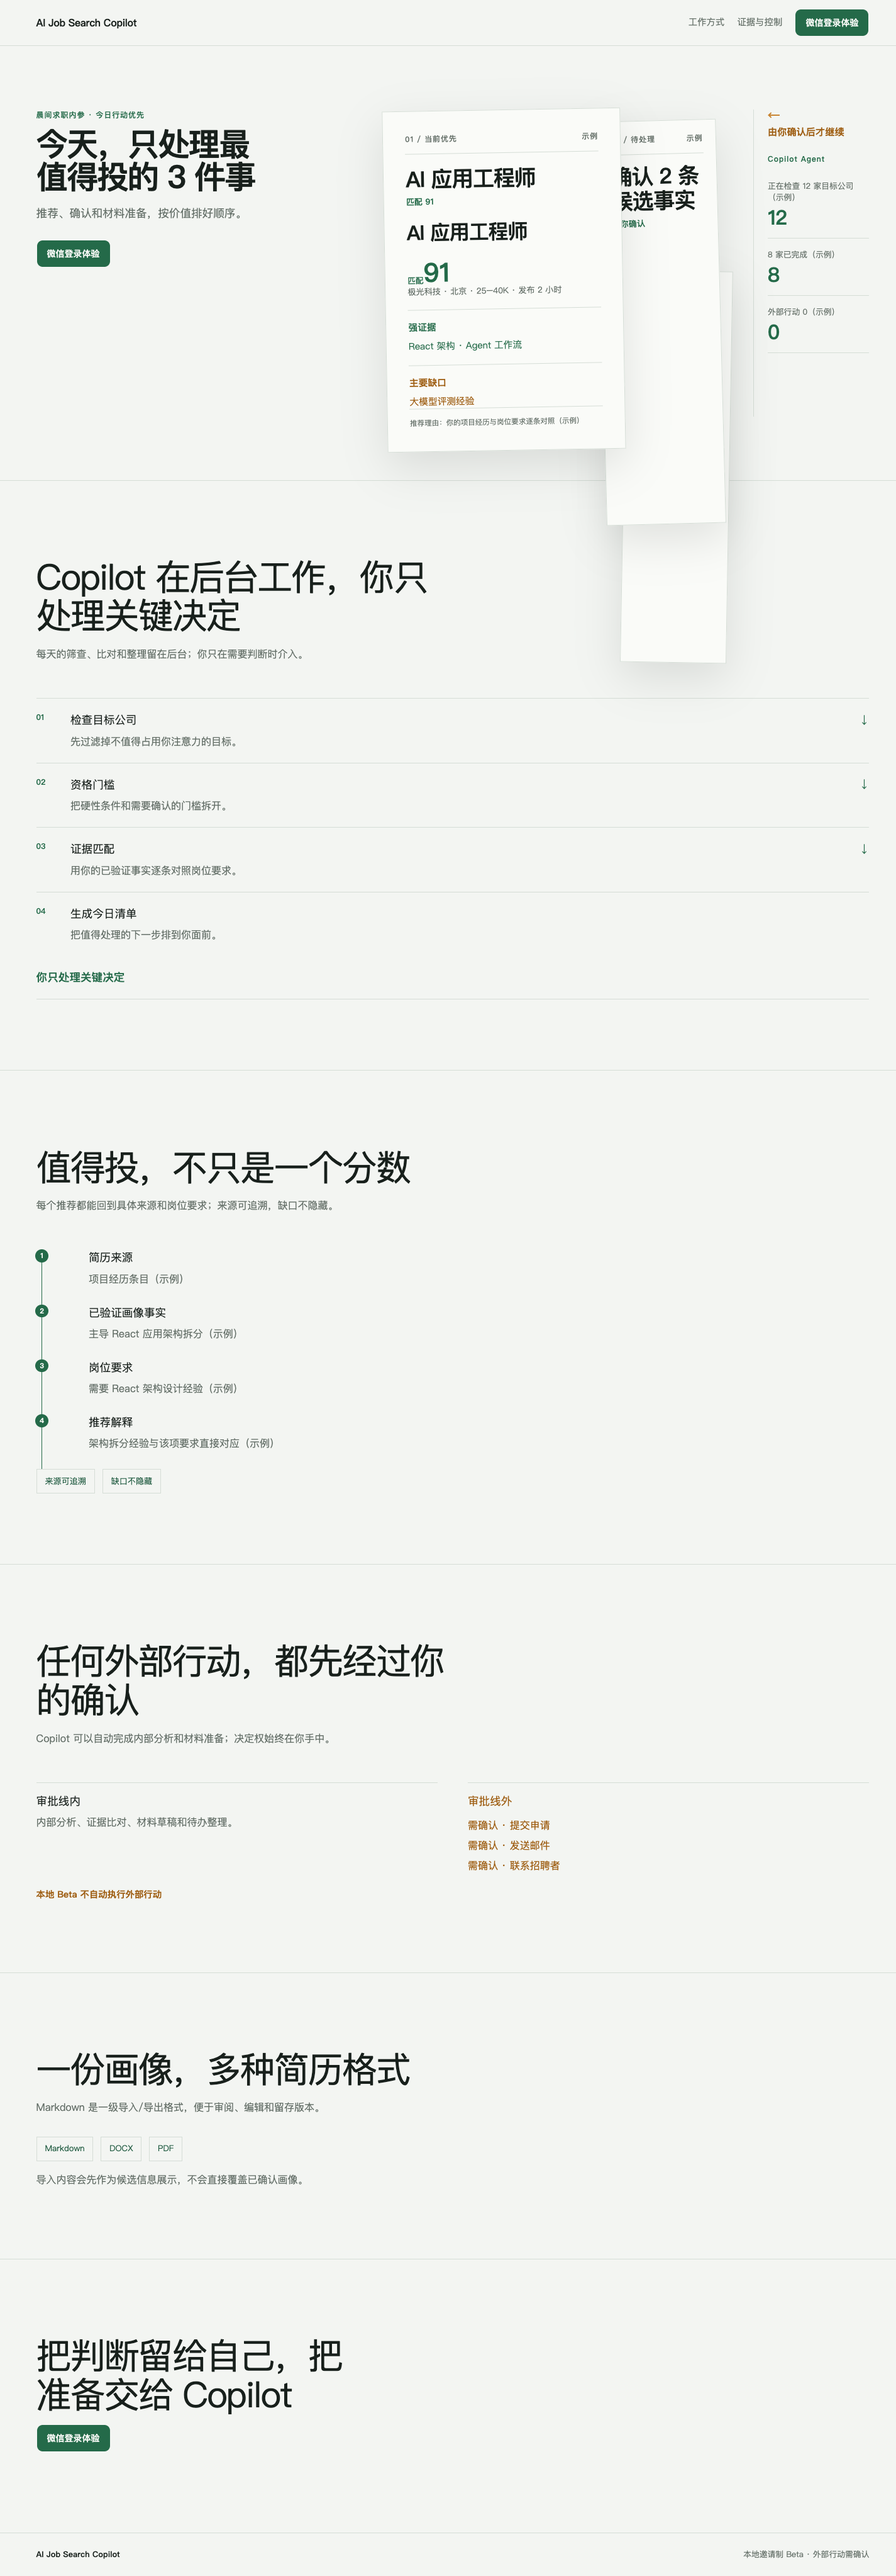
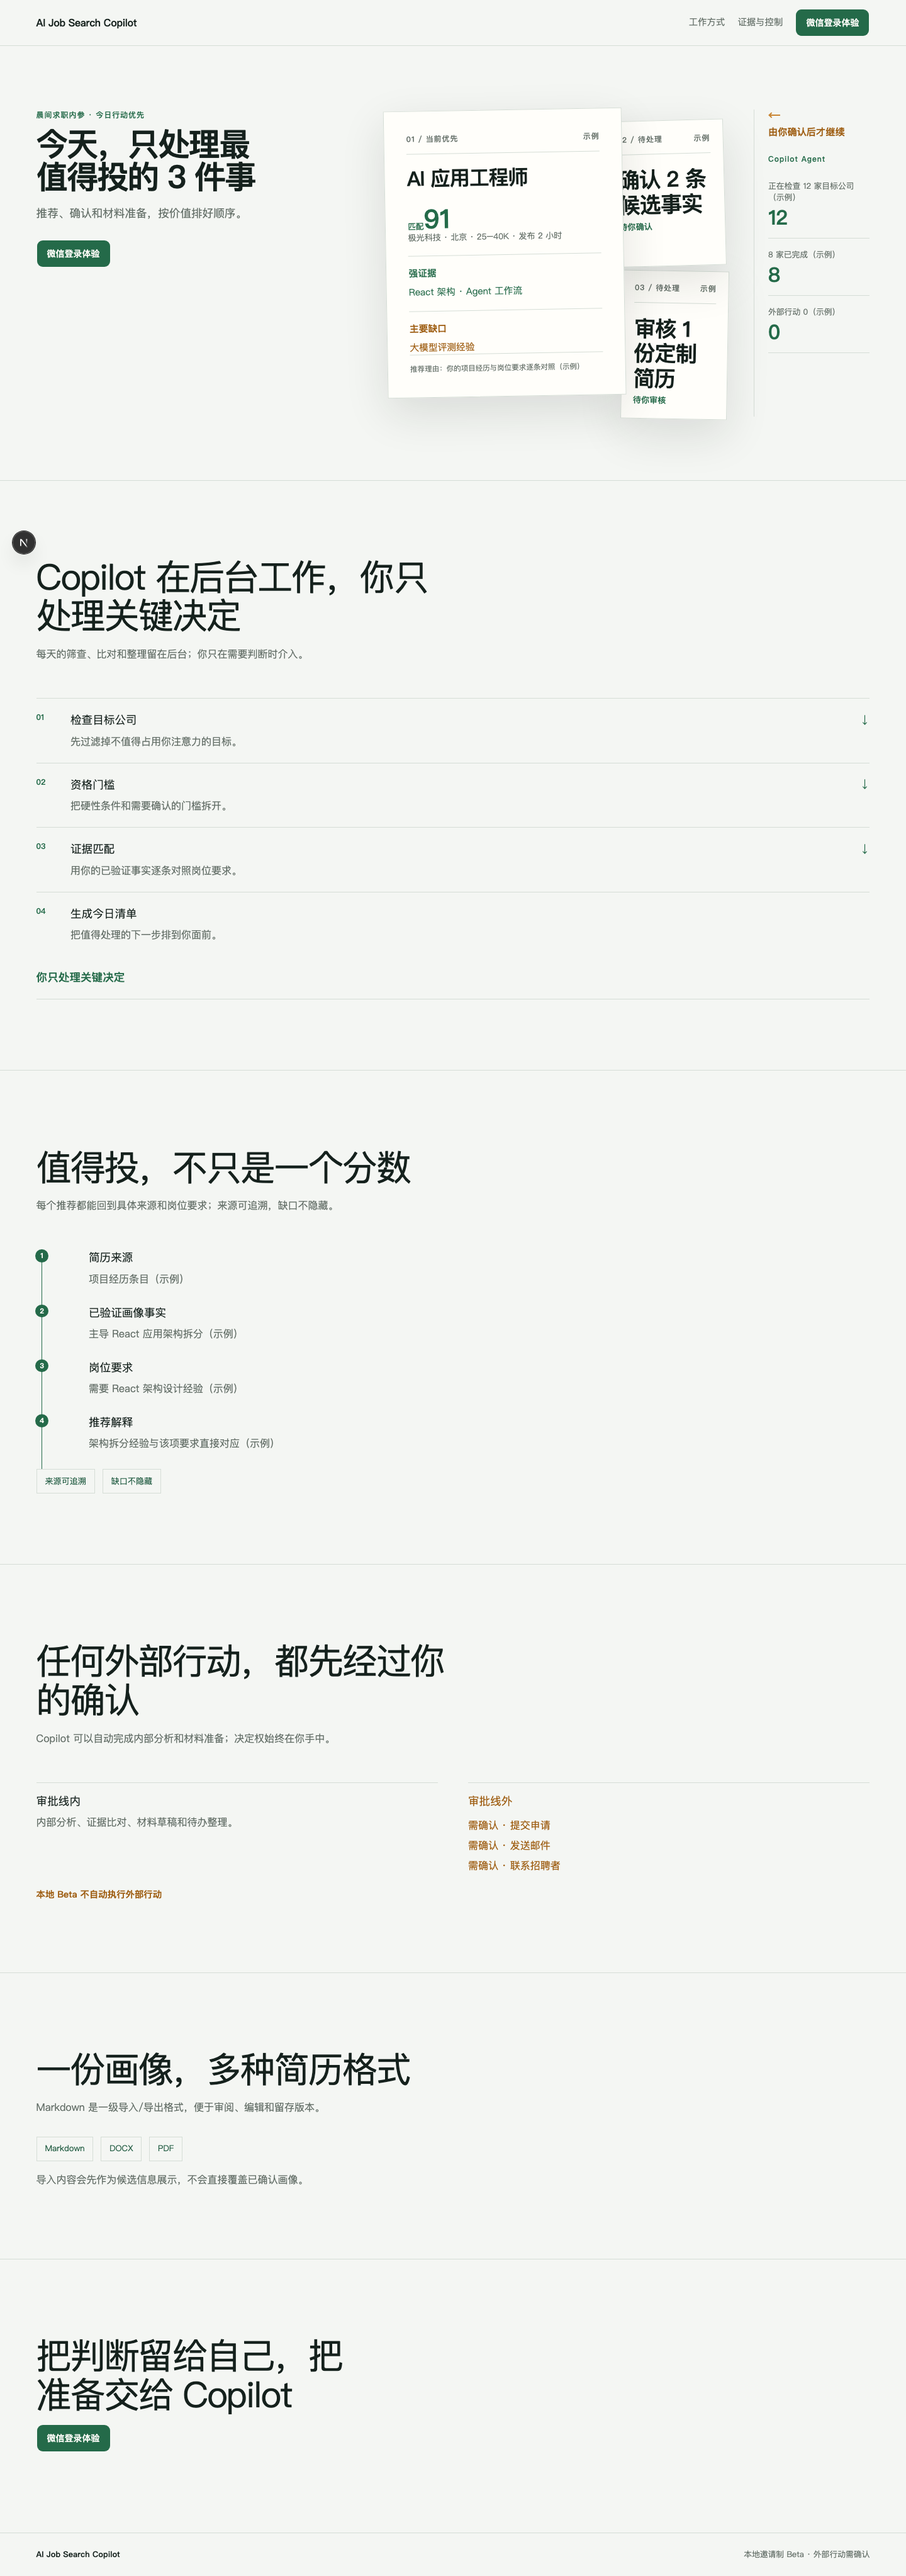
fix(web): complete landing visual contract

diff --git a/apps/web/app/globals.css b/apps/web/app/globals.css
@@ -24,9 +24,9 @@
 }
 
 :root {
-  --ground: #f3f5f2;
-  --surface: #fafbf8;
-  --ink: #18201c;
+  --ground: #f4f6f3;
+  --surface: #fffefa;
+  --ink: #15211d;
   --muted: #657069;
   --emerald: #246a49;
   --emerald-strong: #18553a;
@@ -479,21 +479,6 @@ body {
   font-size: 0.82rem;
 }
 
-.briefing-card:not([data-active="true"]) .briefing-card-glance {
-  margin-top: 1rem;
-}
-
-.briefing-card:not([data-active="true"]) .briefing-card-title,
-.briefing-card:not([data-active="true"]) .briefing-meta,
-.briefing-card:not([data-active="true"]) .briefing-evidence,
-.briefing-card:not([data-active="true"]) .briefing-gap,
-.briefing-card:not([data-active="true"]) .briefing-checklist,
-.briefing-card:not([data-active="true"]) .briefing-candidate-note,
-.briefing-card:not([data-active="true"]) .briefing-markdown,
-.briefing-card:not([data-active="true"]) .briefing-footnote {
-  visibility: hidden;
-}
-
 .briefing-card-heading span {
   color: var(--muted);
   font-weight: 500;
@@ -587,15 +572,11 @@ body {
   padding: 0.85rem 0;
 }
 
-.briefing-markdown p {
+.briefing-markdown span {
   margin: 0.35rem 0;
   font-family: ui-monospace, "SFMono-Regular", Consolas, monospace;
   font-size: 0.78rem;
   line-height: 1.55;
-}
-
-.briefing-markdown span {
-  margin: 0.2rem 0;
 }
 
 .briefing-footnote {
@@ -726,10 +707,6 @@ body {
     padding: clamp(1.25rem, 3vw, 2.2rem);
     transform: translate(18%, 2.8%) rotate(1deg) scale(0.94);
     width: auto;
-  }
-
-  .briefing-card:not([data-active="true"]) .briefing-card-glance {
-    margin-top: 1rem;
   }
 
   .copilot-status {

diff --git a/apps/web/components/landing/briefing-stack.test.tsx b/apps/web/components/landing/briefing-stack.test.tsx
@@ -1,4 +1,4 @@
-import { render, screen } from "@testing-library/react";
+import { render, screen, within } from "@testing-library/react";
 import userEvent from "@testing-library/user-event";
 import { BriefingStack } from "./briefing-stack";
 
@@ -23,4 +23,21 @@ it("uses tabs to bring a briefing forward without exposing inactive details", as
   expect(facts).toHaveAttribute("aria-selected", "true");
   expect(recommendation).toHaveAttribute("aria-selected", "false");
   expect(screen.getByRole("tabpanel")).toHaveTextContent("项目包含大模型评测相关经验");
+});
+
+it("shows each paper title once by using details only for the active paper", async () => {
+  const user = userEvent.setup();
+  render(<BriefingStack />);
+
+  const cards = screen.getByRole("tablist", { name: "切换行动简报" });
+
+  expect(within(cards).getAllByText("AI 应用工程师", { exact: true })).toHaveLength(1);
+  expect(within(cards).getAllByText("确认 2 条候选事实", { exact: true })).toHaveLength(1);
+  expect(within(cards).getAllByText("审核 1 份定制简历", { exact: true })).toHaveLength(1);
+
+  await user.click(screen.getByRole("tab", { name: "确认 2 条候选事实（示例）" }));
+
+  expect(within(cards).getAllByText("AI 应用工程师", { exact: true })).toHaveLength(1);
+  expect(within(cards).getAllByText("确认 2 条候选事实", { exact: true })).toHaveLength(1);
+  expect(within(cards).getAllByText("审核 1 份定制简历", { exact: true })).toHaveLength(1);
 });

diff --git a/apps/web/e2e/landing.spec.ts b/apps/web/e2e/landing.spec.ts
@@ -104,6 +104,24 @@ test("桌面端可直接点击露出的档案纸将其置前", async ({ page }, 
   await expect(facts).toHaveAttribute("aria-selected", "true");
 });
 
+test("桌面待处理纸可辨识并可直接点击第三张纸置前", async ({ page }, testInfo) => {
+  test.skip(testInfo.project.name !== "Desktop Chrome", "仅在桌面检查待处理纸的可辨性与鼠标操作");
+
+  await page.goto("/");
+
+  const facts = page.getByRole("tab", { name: briefingTabs[1] });
+  const resume = page.getByRole("tab", { name: briefingTabs[2] });
+
+  await expect(facts).toContainText("确认 2 条候选事实");
+  await expect(facts).toContainText("待你确认");
+  await expect(resume).toContainText("审核 1 份定制简历");
+  await expect(resume).toContainText("待你审核");
+
+  await resume.click();
+
+  await expect(resume).toHaveAttribute("aria-selected", "true");
+});
+
 test("键盘按顺序到达导航、CTA 与三张简报 tab，并可切换简报", async ({ page }, testInfo) => {
   test.skip(testInfo.project.name !== "Desktop Chrome", "iOS WebKit 仿真不支持硬件 Tab 焦点序列");
 

diff --git a/apps/web/components/landing/briefing-stack.tsx b/apps/web/components/landing/briefing-stack.tsx
@@ -82,11 +82,14 @@ export function BriefingStack({
                   </span>
                   <span>示例</span>
                 </span>
-                <span className="briefing-card-glance">
-                  <span>{briefing.label}</span>
-                  <strong>{briefing.state}</strong>
-                </span>
-                <BriefingContent id={briefing.id} />
+                {isActive ? (
+                  <BriefingContent id={briefing.id} />
+                ) : (
+                  <span className="briefing-card-glance">
+                    <span>{briefing.label}</span>
+                    <strong>{briefing.state}</strong>
+                  </span>
+                )}
               </span>
             </button>
           );

diff --git a/.superpowers/sdd/2026-08-26-marketing-landing-foundation/task-7-report.md b/.superpowers/sdd/2026-08-26-marketing-landing-foundation/task-7-report.md
@@ -1,0 +1,121 @@
+# Task 7 最终自检报告
+
+## 校准决策
+
+- 选择：**bolder**。
+- 依据：合并 critique 已确认首屏过于普通，批准稿要求的三张行动简报没有同时可辨；问题不在色彩或动效过强。
+- 执行：只放大现有“档案纸 + 三件行动 + 琥珀审批注记”语言；**quieter 未运行**。
+
+## 初始问题、修复与证据
+
+| 初始问题 | 最小修复 | 最终证据 |
+| --- | --- | --- |
+| 390px Header 将页内锚点压成逐字竖排，CTA 仅 36px | 增加 Header 局部响应式规则：小屏隐藏两条页内锚点；三处登录 CTA 统一最小高度 44px | 浏览器 390×844 snapshot 只列品牌与“微信登录体验”；实测 CTA heights 为 `[44,44,44]`，`scrollWidth=clientWidth=375`；移动 e2e 通过 |
+| 首屏退化为一张完整卡与两张幽灵纸 | H1 扩至 5 列语言空间；桌面行动纸改为一张主纸和两张右侧不同尺度的可读待处理纸，显示类型与状态；移除 side-tab 视觉 | `landing-desktop.png` 显示“AI 应用工程师 / 匹配 91”“确认 2 条候选事实 / 待你确认”“审核 1 份定制简历 / 待你审核”；桌面 e2e 通过直接点击露出的纸张置前 |
+| 切换器是 `aria-pressed` 按钮，非活动详情连续进入辅助技术阅读顺序 | 改为 roving-tabindex tabs：`tablist`、`tab`、关联 `tabpanel`；只让活动 panel 留在正常辅助技术树；方向键、Home、End 选纸 | RED 测试先因找不到 `tab` 失败；GREEN 单测通过。最终 desktop/mobile axe 通过，键盘 e2e 通过 |
+| 候选“大模型评测”事实与 91 分的关系不清楚 | 候选事实纸新增“待确认，尚未计入当前 91 分或正式画像证据（示例）” | 文案同时存在于视觉纸和活动 panel；单测在切换后断言活动 panel 内容 |
+| reduced-motion 仅断言 ARIA 状态 | e2e 额外断言切换后活动 panel 立即包含“Markdown 简历草稿” | Desktop Chrome 与 Mobile Safari reduced-motion e2e 均通过 |
+| 中文标题字距过紧、后半页重复眉题 | 中文负字距收回至不低于 `-0.04em`；仅隐藏营销页后半段重复眉题 | 最终截图显示更直接的章节节奏；`rg` 未发现低于阈值的本次标题字距 |
+| 桌面 axe 发现叠放纸的透明度降低了小字对比 | 去除非活动纸的全卡 opacity 降级，保留尺度和位置区分 | 重跑桌面 axe 通过；全量 e2e 12 passed、6 skipped |
+
+## RED / GREEN 记录
+
+- **RED 1**：`pnpm --filter web test -- components/landing/briefing-stack.test.tsx` 失败，旧实现没有 `tab` 角色，错误为找不到 `AI 应用工程师（示例）` tab。
+- **GREEN 1**：最小 tabs 实现后，`pnpm test:web` 为 5 files / 9 tests passed。
+- **RED 2**：新增桌面直接点击纸张的 e2e 在堆叠遮挡下超时，确认露出的事实纸中心会被更高层纸截获。
+- **GREEN 2**：调整两张待处理纸的层级后，`桌面端可直接点击露出的档案纸将其置前` 通过。
+- **RED 3**：全量 axe 报告叠放纸 opacity 导致 3.48:1 / 4.24:1 的文字对比不足。
+- **GREEN 3**：移除 opacity 降级后，Desktop Chrome 和 Mobile Safari 的 axe 均通过。
+
+## 浏览器证据
+
+- 独立服务：`127.0.0.1:3005`，以 `apps/web/node_modules/.bin/next dev` 启动；检查后已停止。
+- Desktop：1440×900 浏览器 snapshot 包含 3 个 tabs、主标题、登录 CTA 和各章节；截图为 `.impeccable/mocks/review/landing-desktop.png`。
+- Mobile：390×844 snapshot 只保留 Header 的品牌和登录 CTA；截图为 `.impeccable/mocks/review/landing-mobile.png`。
+- Console：仅 Next DevTools 提示和 HMR 连接日志；errors 无输出。
+- Browser session：`task7-final-desktop`、`task7-final-mobile` 已关闭。
+
+## 最终审查评分
+
+### Critique 自检
+
+| 项目 | 分数 | 依据 |
+| --- | ---: | --- |
+| 系统状态可见性 | 4/4 | 离散运行条、选中 tab 和关联 panel 同步。 |
+| 真实世界匹配 | 3/4 | 求职证据与审批语言明确；RSC/Markdown 仍作为示例材料内容保留。 |
+| 用户控制 | 4/4 | 鼠标、键盘和登录边界均可返回且无外部自动操作。 |
+| 一致性与响应式 | 4/4 | Mobile Header、触控尺寸、焦点和断点均通过实测。 |
+| 错误预防 | 4/4 | 候选事实不计入 91 分的边界已明确。 |
+| 识别而非回忆 | 4/4 | 三张纸同时露出类型和状态。 |
+| 审美与最小化 | 3/4 | 首屏形成强记忆点；下半页仍以克制的文字证据为主。 |
+| 错误恢复 | 2/4 | 登录边界说明未创建会话，但没有模拟真实微信 OAuth 失败流程（本批次未实现能力）。 |
+| **合计** | **28/32 · 88%** | **Good，剩余限制已如实标注。** |
+
+### Audit 自检
+
+| 维度 | 分数 | 结论 |
+| --- | ---: | --- |
+| Accessibility | 4/4 | axe 0 violations、tabs/tabpanel、焦点、reduced motion、44px 控件。 |
+| Performance | 4/4 | 静态营销内容，只有简报 Client Component；无远程字体、图库或额外运行时。 |
+| Theming | 3/4 | 营销页面复用现有 CSS tokens；项目没有深色主题需求。 |
+| Responsive | 4/4 | 1440/390 实测，无横向溢出。 |
+| Implementation Integrity | 4/4 | 视觉世界、批准稿和真实产品边界一致；已移除 side-tab。 |
+| **合计** | **19/20 · Excellent** | **无 P0/P1；唯一 P2 为正式微信 OAuth 的失败恢复尚未实现，属于本批次范围外。** |
+
+## 验证结果
+
+| 命令 | 结果 |
+| --- | --- |
+| `pnpm test:web` | 5 files / 9 tests passed |
+| `pnpm lint:web` | exit 0 |
+| `pnpm build:web` | exit 0；`/` 静态，`/login` 动态 |
+| `PLAYWRIGHT_PORT=3004 pnpm test:e2e` | 12 passed / 6 skipped / exit 0 |
+| `git diff --check` | exit 0 |
+| `rg -n "4e302c13|unreviewed and undocumented is unfinished" apps/web` | 3 命中，合同保留 |
+| `embed-prompt.mjs ... --read` | exit 0 |
+| `jq -e '.approved == true and (.prompt | length > 0)' ...` | `true` |
+
+## 交付物与剩余问题
+
+- 已新增 `DESIGN.md` 与 `.impeccable/design.json`（schemaVersion 2，5 个真实代表组件）。
+- 已新增最终桌面/移动审查截图。
+- 未解决：真实微信 OAuth 及其网络失败恢复不属于当前公开营销页 + Dev Auth 登录边界的实现范围；没有假造该能力。
+
+## Fix round 1
+
+### RED / GREEN
+
+- **RED 1**：新增 `桌面待处理纸可辨识并可直接点击第三张纸置前` 后，第三张“审核 1 份定制简历 / 待你审核”点击超时；Playwright 明确报告第二张纸的子树拦截 pointer events。
+- **GREEN 1**：活动纸只渲染详情，非活动纸只渲染 glance 标题/状态，详情不再以 `visibility: hidden` 留在纸张布局中。定向 E2E 已可直接点击第三张纸置前；两张待处理纸的标题和状态均断言通过。
+- **RED 2**：新增组件测试时，旧实现使同一张纸的标题在 glance、详情与 panel 中重复出现。
+- **GREEN 2**：组件测试将断言限定于可视纸张 tablist：每张纸在任一排序只有一个标题；`pnpm test:web` 为 5 files / 10 tests passed。
+
+### 逐项修复结论
+
+| Finding | Verdict |
+| --- | --- |
+| ground / surface / ink 偏离合同 | 已修复为 `#f4f6f3` / `#fffefa` / `#15211d`，并同步 `DESIGN.md` 与 sidecar；`amber #c98532` 未变，`amber-ink #9f5f14` 记录为派生 AA 角色。 |
+| 第三张纸被覆盖 | 已修复：非活动详情退出布局，待处理纸保持紧凑高度；E2E 覆盖两张标题/状态及直接点击第三张置前。 |
+| sidecar schema 与 colorMeta 不完整 | 已修复：顶层严格为 `schemaVersion`、`generatedAt`、`title`、`extensions`、`components`、`narrative`；9 个 DESIGN 颜色均有 8-step tonalRamp，保留 5 个自包含 `ds-*` 组件。 |
+| 活动纸重复标题 | 已修复：活动态仅渲染详情，非活动态仅渲染 glance；组件测试防回归。 |
+| Markdown span 样式未绑定 | 已修复：等宽字体、字号、行高迁移到 `.briefing-markdown span`。 |
+
+### 截图与浏览器证据
+
+- 独立服务：`127.0.0.1:3018`，仅用于本轮检查，已关闭；`agent-browser` 的 `task7-fix-desktop`、`task7-fix-mobile` session 也已关闭。
+- agent-browser 真实 viewport：Desktop `window.innerWidth/innerHeight=1440/900`、`clientWidth=1425`、`scrollWidth=1425`；Mobile `390/844`、`clientWidth=375`、`scrollWidth=375`。full-page PNG 分别为 `1425×4093`、`375×4276`，15px 差异来自 Chromium 滚动条。
+- 为获得精确交付宽度，项目 Playwright page context 以同一 viewport 重采集 `.impeccable/mocks/review/landing-desktop.png` 与 `landing-mobile.png`；实际像素为 **1440×4093**、**390×4205**。
+
+### 验证结果
+
+| 命令 | 结果 |
+| --- | --- |
+| `pnpm test:web` | 5 files / 10 tests passed |
+| `pnpm lint:web` | exit 0 |
+| `pnpm build:web` | exit 0 |
+| `PLAYWRIGHT_PORT=3004 pnpm test:e2e` | 13 passed / 7 skipped / exit 0 |
+| `git diff --check` | exit 0 |
+| `rg -n "4e302c13|unreviewed and undocumented is unfinished" apps/web` | 3 命中 |
+| `embed-prompt.mjs ... --read` 与 approved jq | exit 0 / `true` |
+| schema jq | 严格顶层键、schemaVersion 2、5 个 `ds-*` 组件均为 `true` |
+| colorMeta jq | 9 个 DESIGN 颜色均有对应项且 tonalRamp 长度为 8；amber / amber-ink 合同为 `true` |

diff --git a/DESIGN.md b/DESIGN.md
@@ -2,9 +2,9 @@
 name: AI Job Search Copilot
 description: 面向主动求职者的晨间行动内参。
 colors:
-  ground: "#f3f5f2"
-  surface: "#fafbf8"
-  ink: "#18201c"
+  ground: "#f4f6f3"
+  surface: "#fffefa"
+  ink: "#15211d"
   muted: "#657069"
   emerald: "#246a49"
   emerald-strong: "#18553a"
@@ -78,7 +78,7 @@ components:
 ### Secondary
 
 - **审批琥珀**：用于指向“由你确认后才继续”的注记箭头。
-- **审批墨色**：用于审批说明和候选事实的未确认状态。
+- **审批墨色**：由审批琥珀派生，用于审批说明和候选事实的未确认状态，并保持 AA 对比度角色。
 
 ### Neutral
 
@@ -137,7 +137,7 @@ components:
 ### Action Briefing Tabs
 
 - **Style:** 每张纸本身是可点击的 `tab`，当前项与 `tabpanel` 通过 `aria-controls` 和 `aria-labelledby` 关联。
-- **State:** 当前纸完整展示；另外两张仍显示任务类型和关键状态。方向键、Home、End 可切换并将焦点移到活动纸；非活动详情标记为 `aria-hidden`，不造成三篇连续阅读。
+- **State:** 当前纸只展示详情标题，避免与摘要标题重复；另外两张只显示任务类型和关键状态。方向键、Home、End 可切换并将焦点移到活动纸；非活动详情标记为 `aria-hidden`，不造成三篇连续阅读。
 - **Motion:** 纸张只在三种明确排序间切换；`prefers-reduced-motion` 下立即完成状态切换。
 
 ### Status Strip
